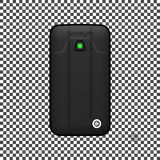
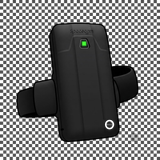
fix(estoque): atualiza tzpr.png v3 com cinta (Spacecom)

diff --git a/public/index.html b/public/index.html
@@ -6397,7 +6397,7 @@ function renderEstoque(){
   const porUnidadeEl=document.getElementById('estoquePorUnidade');
   if(!cont) return;
   const mats=['TZPR04','UPR04','FONTE04','CINTA','TRAVAS'];
-  const icons={ TZPR04:'<img src="/tzpr.png?v=2" alt="TZPR04" class="w-10 h-10 mx-auto object-contain" loading="lazy">', UPR04:'<img src="/upr.png?v=2" alt="UPR04" class="w-10 h-10 mx-auto object-contain" loading="lazy">', FONTE04:'🔌', CINTA:'🩹', TRAVAS:'🔒' };
+  const icons={ TZPR04:'<img src="/tzpr.png?v=3" alt="TZPR04" class="w-10 h-10 mx-auto object-contain" loading="lazy">', UPR04:'<img src="/upr.png?v=2" alt="UPR04" class="w-10 h-10 mx-auto object-contain" loading="lazy">', FONTE04:'🔌', CINTA:'🩹', TRAVAS:'🔒' };
   let list=estoqueCache.filter(e=> String(e.contrato).toUpperCase()===estoqueContratoAtivo);
   if(estoqueUnidadeAtiva) list=list.filter(e=> String(e.unidade)===estoqueUnidadeAtiva);
   // se filtro Todas, mostrar agregado por material (soma unidades)
